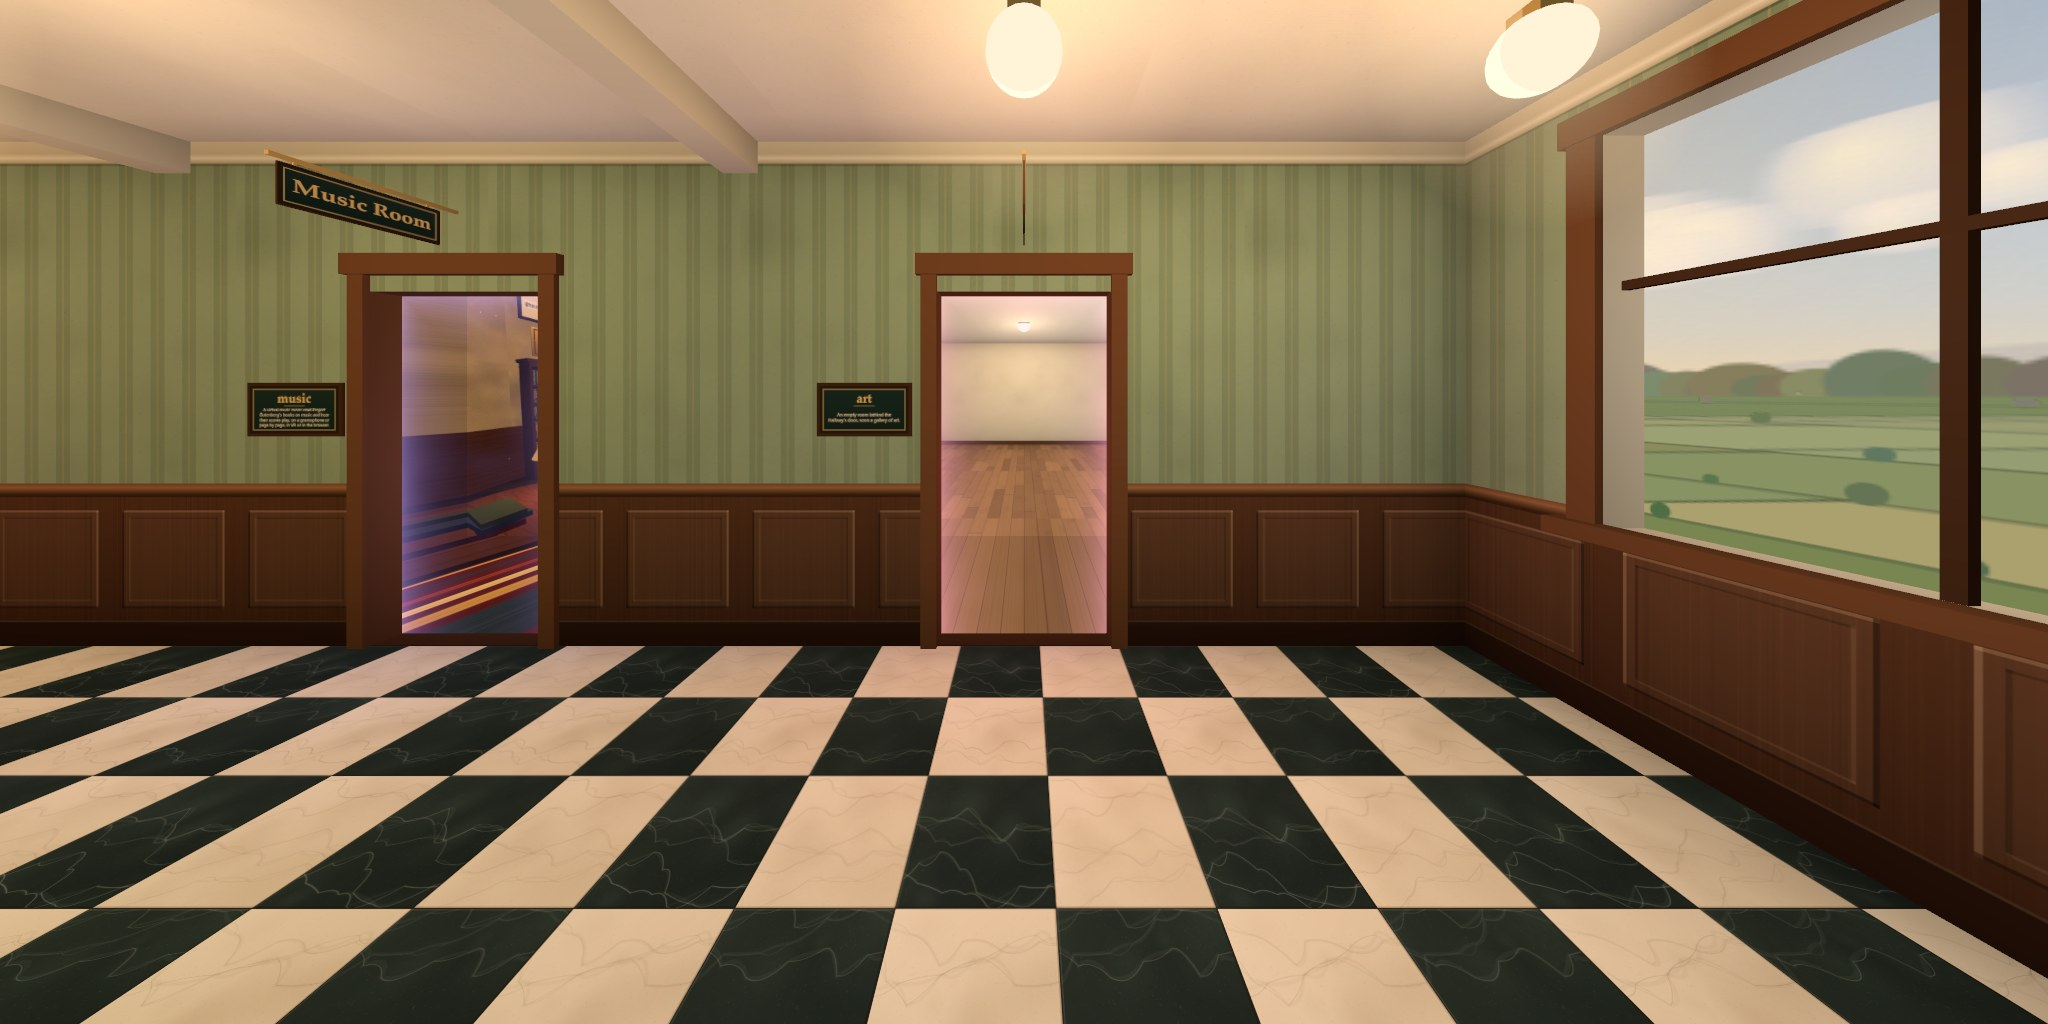
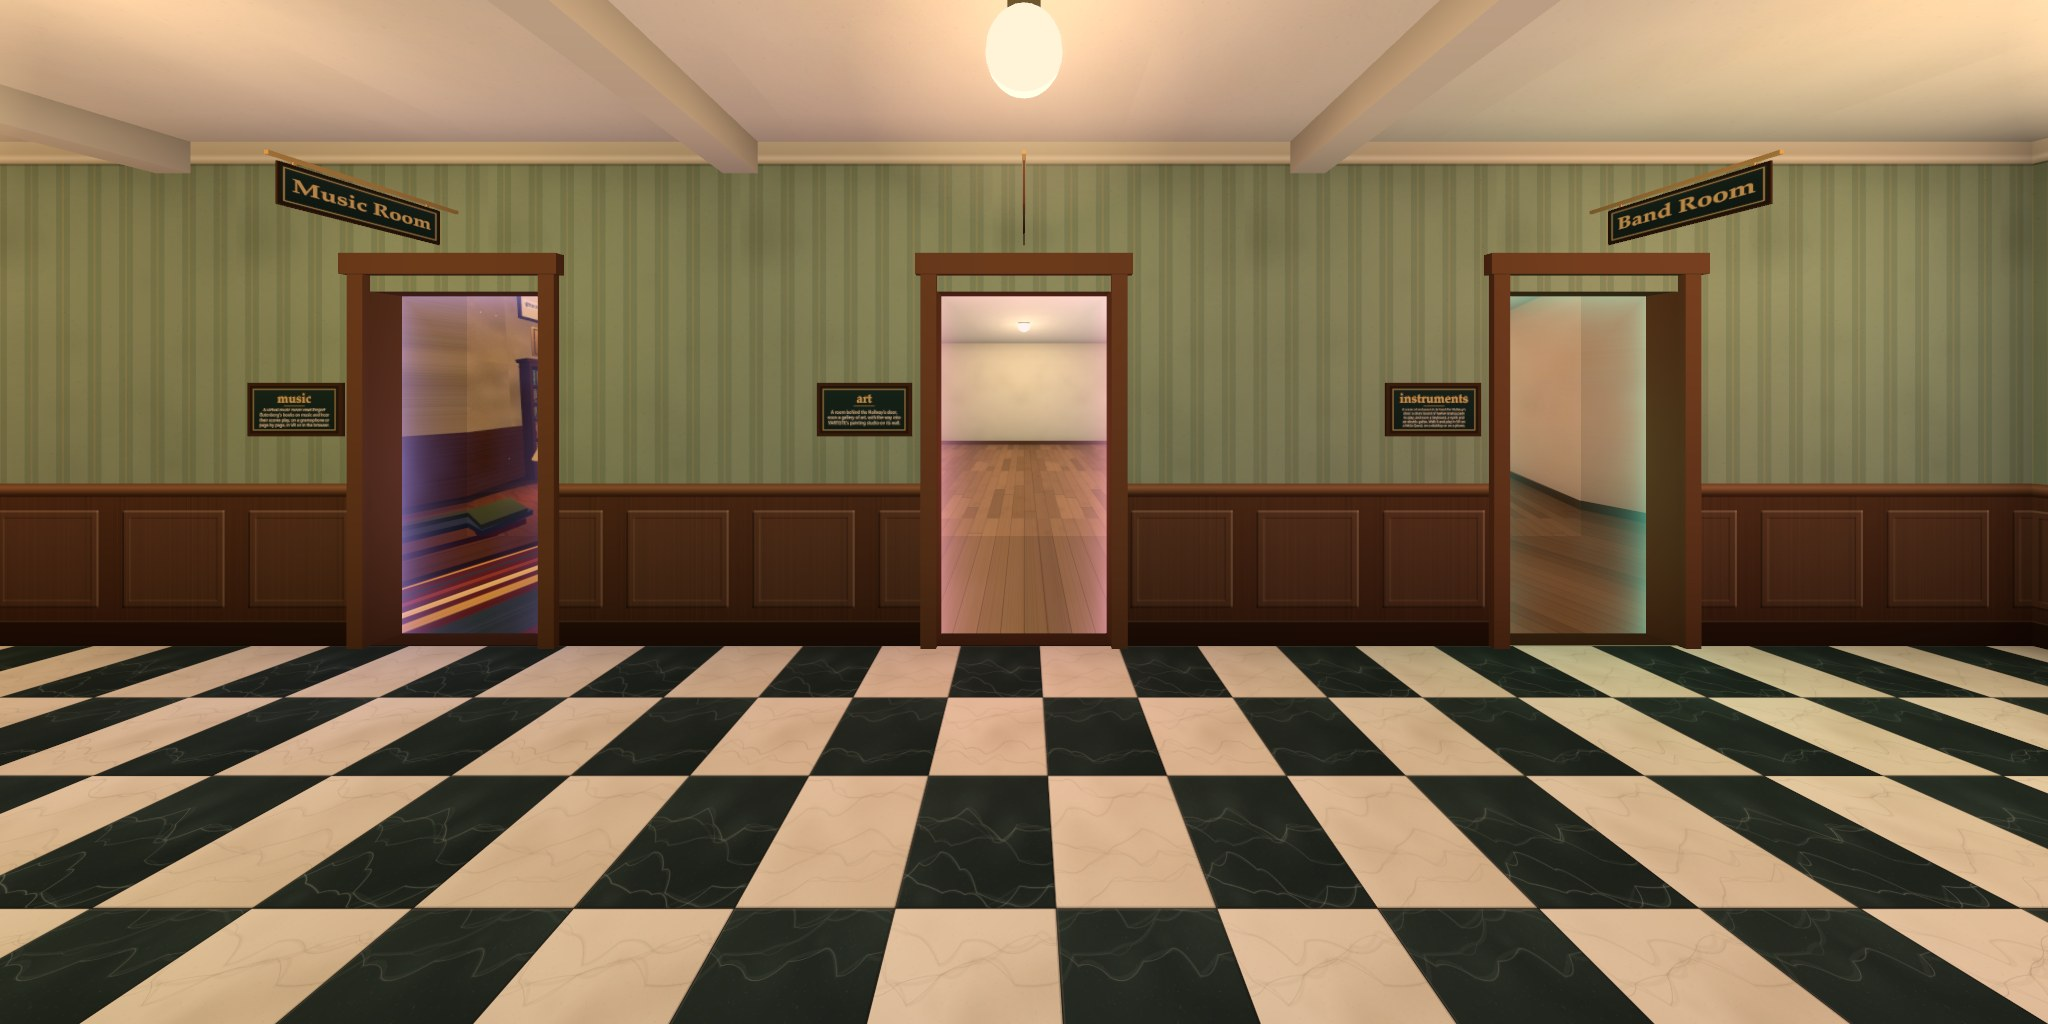
Doors to instruments and arcade, and the hall a pair longer
Two more rooms made from AriaMoKr/RoomTemplateEmpty get doors after video's: instruments (Band
Room, #5cc8a8), with its drum board of twelve pads to play, and arcade (Arcade, #d36fd8), still
empty. Each entry is its room's config.js hallwayDoor(), the subtitle its page's description
word for word (checked against the live pages), and both are in the <noscript> list. The README
and CLAUDE.md name them, and no longer call art empty: it has the way into VARTISTE's painting
studio on its wall, which only its plaque said so far.

The hall grows by a pair on its own (layout.js): the end window is 3.6 m further down, 16.5 m
from the entrance's spawn to the far end (12.9 before), 8.7 s at a walk on a desktop, 4.3 s
running, 9.2 s gliding in VR. The new plaques fit at 19 px (instruments, as outside's) and 21 px.

The door views are rendered again, all eight: the new doors face each other at the end of the
hall, where the end window was in art's and video's views, and art's plaque in them reads as it
does in the hall. social.jpg sees the Band Room and Arcade signs at the far end. They were
rendered in a headless Chrome (door-views.mjs --chrome), as the last ones were, so the signs and
plaques are in this computer's fonts; the README no longer says the committed views are the
Quest's. Published, they give instruments and arcade the view back into the hall through their
doorways, which read the hallway's views.json.
[…]

Changed region(s): [[0.5625, 0.0, 1.0, 1.0], [0.4062, 0.375, 0.4375, 0.4375]]

diff --git a/public/js/environments.js b/public/js/environments.js
@@ -78,4 +78,24 @@ export const ENVIRONMENTS = [
     preview: 'https://ariamokr.github.io/video/hallway-preview.jpg',
     color: '#6cb8e0',
   },
+  {
+    // As art's: from RoomTemplateEmpty, its config.js's hallwayDoor().
+    id: 'instruments',
+    title: 'instruments',
+    subtitle: "A room of instruments behind the Hallway's door: a drum board of twelve analog pads to play, and soon a keyboard, a synth and an electric guitar. Walk it and play in VR on a Meta Quest, on a desktop or on a phone.",
+    sign: 'Band Room',
+    url: 'https://ariamokr.github.io/instruments/',
+    preview: 'https://ariamokr.github.io/instruments/hallway-preview.jpg',
+    color: '#5cc8a8',
+  },
+  {
+    // As art's: from RoomTemplateEmpty, its config.js's hallwayDoor().
+    id: 'arcade',
+    title: 'arcade',
+    subtitle: "An empty room behind the Hallway's door, soon an arcade of old computers, game consoles and arcade machines. Walk it in VR on a Meta Quest, on a desktop or on a phone.",
+    sign: 'Arcade',
+    url: 'https://ariamokr.github.io/arcade/',
+    preview: 'https://ariamokr.github.io/arcade/hallway-preview.jpg',
+    color: '#d36fd8',
+  },
 ];

diff --git a/public/index.html b/public/index.html
@@ -39,8 +39,10 @@
       <li><a href="https://ariamokr.github.io/breadboard/vr.html">breadboard</a>: Ben Eater's 8-bit breadboard computer in 3D</li>
       <li><a href="https://ariamokr.github.io/music/">music</a>: a music room, where Project Gutenberg's books on music play their scores</li>
       <li><a href="https://ariamokr.github.io/outside/">outside</a>: a small garden, a stream and a pond, and a bench to read on</li>
-      <li><a href="https://ariamokr.github.io/art/">art</a>: an empty room, soon a gallery of art</li>
+      <li><a href="https://ariamokr.github.io/art/">art</a>: a room, soon a gallery of art, with the way into VARTISTE's painting studio</li>
       <li><a href="https://ariamokr.github.io/video/">video</a>: an empty room, soon a room to watch videos in</li>
+      <li><a href="https://ariamokr.github.io/instruments/">instruments</a>: a room of instruments, with a drum board of twelve pads to play</li>
+      <li><a href="https://ariamokr.github.io/arcade/">arcade</a>: an empty room, soon an arcade of old computers, game consoles and arcade machines</li>
     </ul>
   </div>
 </noscript>

diff --git a/README.md b/README.md
@@ -8,9 +8,12 @@ A WebXR corridor whose doors lead to other environments:
 computer in 3D, run live by its simulator; [music](https://ariamokr.github.io/music/), a music
 room where Project Gutenberg's books on music play their scores;
 [Outside](https://ariamokr.github.io/outside/), a small garden with a stream, a pond and a bench to
-read on; and two rooms still empty, [art](https://ariamokr.github.io/art/), soon a gallery of art,
-and [video](https://ariamokr.github.io/video/), soon a room to watch videos in. Walk the hallway in
-VR on a Meta Quest, on a desktop or on a phone, with nothing to install, or on an Android TV with
+read on; [art](https://ariamokr.github.io/art/), soon a gallery of art, with the way into
+VARTISTE's painting studio on its wall; [video](https://ariamokr.github.io/video/), an empty room,
+soon one to watch videos in; [instruments](https://ariamokr.github.io/instruments/), a room of
+instruments with a drum board of twelve pads to play; and [arcade](https://ariamokr.github.io/arcade/),
+an empty room, soon an arcade of old computers, game consoles and arcade machines. Walk the hallway
+in VR on a Meta Quest, on a desktop or on a phone, with nothing to install, or on an Android TV with
 its remote, in [the TV app](#the-tv-app).
 
 ![The hallway: a library's bookcases through an open door under a Library sign, and more doors and signs down a chequered floor to a window onto fields in the afternoon](public/social.jpg)
@@ -274,9 +277,9 @@ node tools/door-views.mjs --chrome
 It starts Chrome through common's `launchChrome`, on a new profile whose `Local State` is written
 first, so on Windows Chrome doesn't test the account's password with a failed logon. Headless
 Chrome draws the views as a Chrome window does, pixel for pixel; but the signs and plaques are in
-this computer's fonts, not the Quest's, so the views committed so far are the Quest's. The tool
-writes `public/views/<id>.jpg` and `views.json`, to be committed with the change. It also renders
-the picture a shared link to the hallway shows (see "Publishing"), `public/social.jpg`.
+this computer's fonts, not the Quest's. The tool writes `public/views/<id>.jpg` and `views.json`,
+to be committed with the change. It also renders the picture a shared link to the hallway shows
+(see "Publishing"), `public/social.jpg`.
 
 ## Publishing
 

diff --git a/CLAUDE.md b/CLAUDE.md
@@ -10,13 +10,18 @@ whose conventions this project follows), Breadboard 8-bit's VR view
 (https://ariamokr.github.io/breadboard/vr.html), music (https://ariamokr.github.io/music/,
 AriaMoKr/music: a music room built from vrlbry, where Gutenberg's books on music play their scores) and Outside (https://ariamokr.github.io/outside/,
 AriaMoKr/outside: a small garden built for the door link, whose `HALLWAY_DOOR` in
-`public/js/way.js` is its entry here; keep them in step), and two rooms made from
-AriaMoKr/RoomTemplateEmpty and still empty, art (https://ariamokr.github.io/art/, AriaMoKr/art,
-soon a gallery) and video (https://ariamokr.github.io/video/, AriaMoKr/video, soon a room to watch
-videos in), each with its entry here as its `public/js/config.js`'s `hallwayDoor()`. All six take
-the VR hand-over. On an Android TV the hallway runs in AriaMoKr/HallwayApp (the site in a
-full-screen WebView whose user agent ends ` HallwayTV/<version>`; its README has the install, the
-build and its release workflow), where the page is in TV mode (common's `tv.js`).
+`public/js/way.js` is its entry here; keep them in step), and four rooms made from
+AriaMoKr/RoomTemplateEmpty: art (https://ariamokr.github.io/art/, AriaMoKr/art, soon a gallery,
+with the way into VARTISTE's painting studio on its wall), video (https://ariamokr.github.io/video/,
+AriaMoKr/video, still empty, soon a room to watch videos in), instruments
+(https://ariamokr.github.io/instruments/, AriaMoKr/instruments, a drum board of twelve pads to
+play, soon a keyboard, a synth and an electric guitar) and arcade
+(https://ariamokr.github.io/arcade/, AriaMoKr/arcade, still empty, soon an arcade of old computers,
+game consoles and arcade machines), each with its entry here as its `public/js/config.js`'s
+`hallwayDoor()`. All eight take the VR hand-over. On an Android TV the hallway runs in
+AriaMoKr/HallwayApp (the site in a full-screen WebView whose user agent ends
+` HallwayTV/<version>`; its README has the install, the build and its release workflow), where
+the page is in TV mode (common's `tv.js`).
 `public/` is the whole site. `README.md` covers
 using it, adding a door, and rendering the door views the site publishes. The door contract (what
 a door's link tells the environment, how environments link back, the door views) is AriaMoKr/common's
